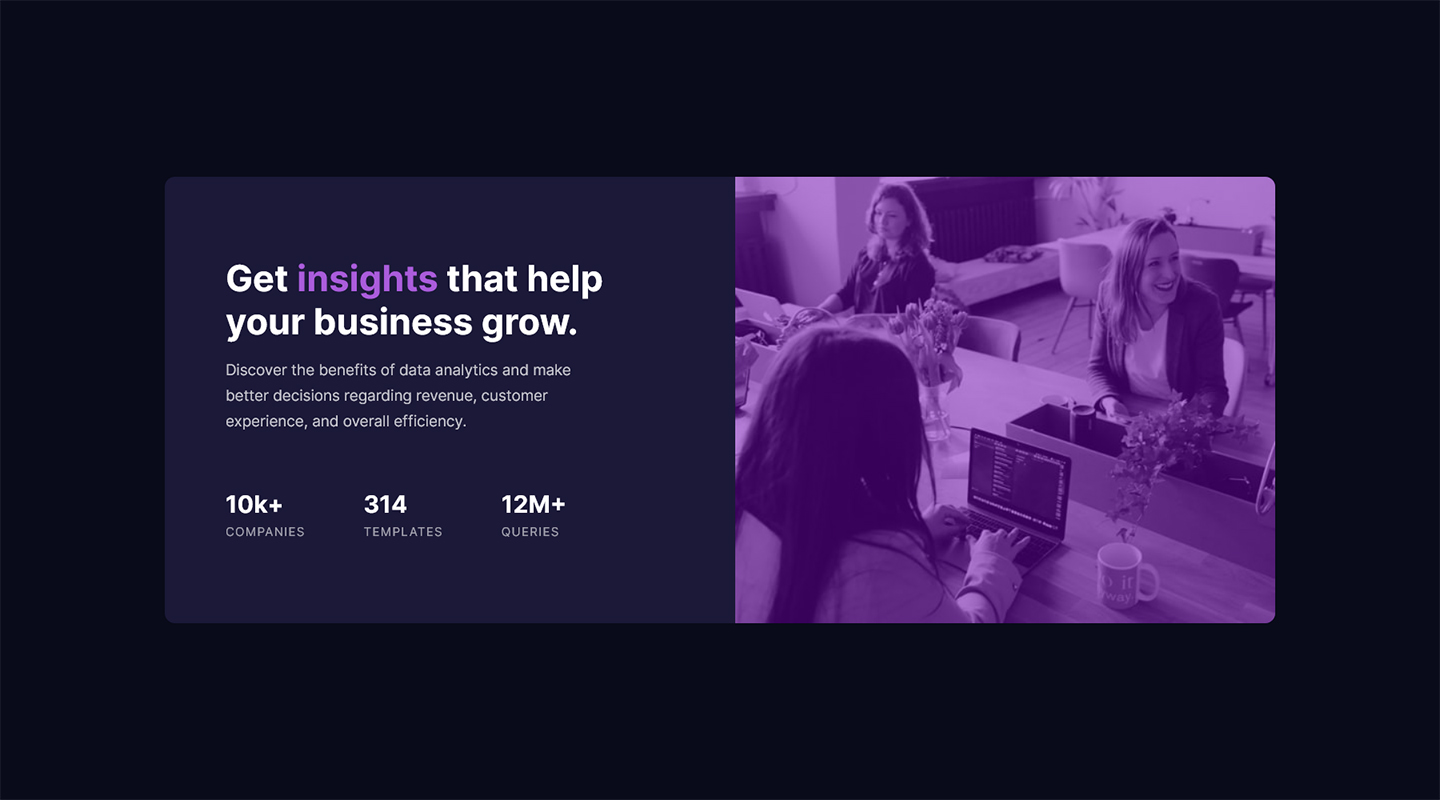
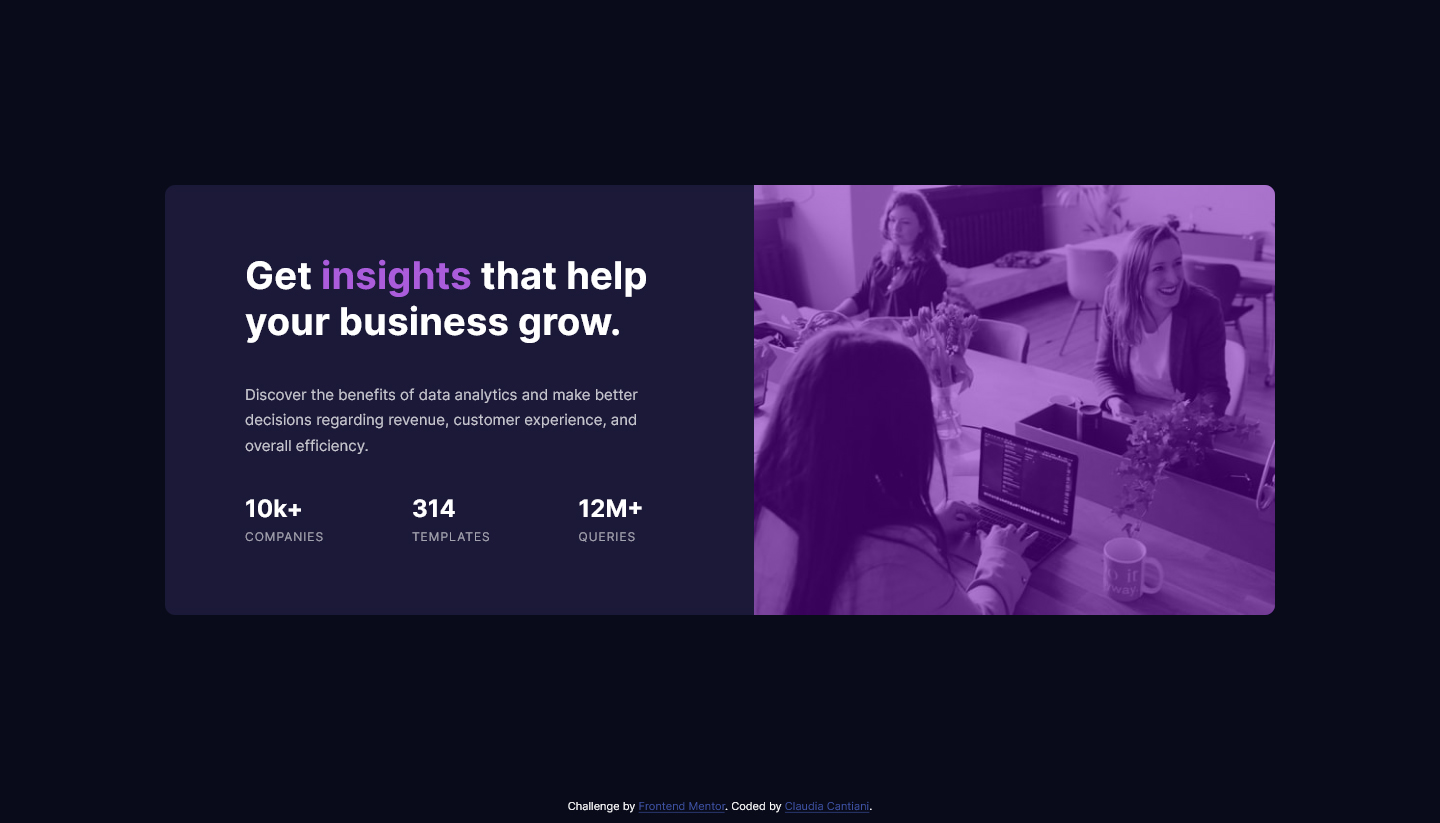
revised html and css

diff --git a/styles.css b/styles.css
@@ -2,7 +2,7 @@
 * Prefixed by https://autoprefixer.github.io
 * PostCSS: v7.0.29,
 * Autoprefixer: v9.7.6
-* Browsers: last 4 version
+* Browsers: last 10 version
 */
 
 * {
@@ -11,19 +11,15 @@
   -webkit-box-sizing: border-box;
           box-sizing: border-box;
 }
-
-header, section, picture {
+main, footer, section, picture {
   display: block; /* for older browsers */
-}
-html {
-  font-size: 15px;
 }
 body {
   background-color: hsl(233, 47%, 7%); /*very dark blue*/
   font-family: "Inter", sans-serif;
+  font-size: 0.9375rem;
 }
-
-.card-container {
+.container {
   display: -webkit-box;
   display: -ms-flexbox;
   display: flex;
@@ -31,7 +27,6 @@ body {
       -ms-flex-pack: center;
           justify-content: center;
 }
-
 .card {
   background-color: hsl(244, 38%, 16%); /*dark desaturated blue*/
   color: hsla(0, 0%, 100%, 0.75); /*slightly transparent white*/
@@ -41,136 +36,134 @@ body {
   display: -ms-flexbox;
   display: flex;
 }
-.card-header {
+.card-img {
   background-color: hsl(277, 100%, 35%);
 }
-
-.card-header img {
+.card-img img {
   max-width: 100%;
   display: block;
-  margin: auto;
   opacity: 0.5;
 }
-
 .card-content h1 {
   color: hsl(0, 0%, 100%);
-  font-size: 1.8rem;
+  font-size: 1.8em;
   line-height: 1.2;
-  letter-spacing: 0.01rem;
+  letter-spacing: 0.01em;
 }
 .card-content p {
-  font-size: 1rem;
   line-height: 1.7;
 }
-
 .card-content strong {
   color: hsl(277, 64%, 61%);
 }
-.card-content .card-stat {
+.card-stat {
   list-style-type: none;
-  line-height: 1.6rem;
+  line-height: 1.6em;
 }
 .card-stat .stat-head {
   color: hsl(0, 0%, 100%);
-  font-size: 1.6rem;
+  font-size: 1.6em;
   font-weight: bold;
 }
 .card-stat .stat-sub {
   color: hsla(0, 0%, 100%, 0.6);
   display: block;
   text-transform: uppercase;
-  font-size: 0.8rem;
-  letter-spacing: 0.07rem;
+  font-size: 0.8em;
+  letter-spacing: 0.08em;
 }
 
-/*small screen*/
-@media only screen and (max-width: 768px) {
+@media only screen and (width <= 768px) {
   .card {
     max-width: 654px;
-    width: 87%;
-    margin: 5.9rem 0;
+    -ms-flex-preferred-size: 87%;
+        flex-basis: 87%;
+    margin-top: 5.9em;
+    margin-bottom: 5.9em;
     -webkit-box-pack: center;
         -ms-flex-pack: center;
             justify-content: center;
     -ms-flex-wrap: wrap;
         flex-wrap: wrap;
   }
-  .card-header {
-    margin-bottom: 2.3rem;
+  .card-img {
+    margin-bottom: 2.3em;
   }
-  .card-content {
+ .card-content {
     text-align: center;
+    margin: 1em 2.3em;
   }
   .card-content h1 {
-    margin: 1rem 2.3rem;
+    margin-bottom: 1em;
   }
   .card-content p {
-    margin: 1rem 2.3rem;
+    margin-bottom: 2em;
   }
-  .card-content .card-stat {
-    margin: 2rem 2.3rem;
+  .card-stat {
+    margin-bottom: 2em;
   }
-  .card-stat .stat-sub {
-    margin-bottom: 1rem;
+  .stat-sub {
+    margin-bottom: 1.5em;
   }
 }
 
-/*big screen*/
-@media only screen and (min-width: 769px) {
-  .card-container {
-    position: relative;
+@media only screen and (width > 768px) {
+  .container {
     height: 100vh;
     -webkit-box-align: center;
         -ms-flex-align: center;
             align-items: center;
   }
-
   .card {
-    max-height: 446px;
-    max-width: 1110px;
-    width: 95%;
+    -ms-flex-preferred-size: 95%;
+        flex-basis: 95%;
     -webkit-box-orient: horizontal;
     -webkit-box-direction: reverse;
         -ms-flex-direction: row-reverse;
             flex-direction: row-reverse;
-    -webkit-box-pack: center;
-        -ms-flex-pack: center;
-            justify-content: center;
+    -webkit-box-pack: justify;
+        -ms-flex-pack: justify;
+            justify-content: space-between;
   }
-  .card-header {
-    margin-left: auto;
+  .card-img {
+    width: 50%;
   }
   .card-content {
     display: -webkit-box;
     display: -ms-flexbox;
     display: flex;
-    -webkit-box-orient: vertical;
-    -webkit-box-direction: normal;
-        -ms-flex-direction: column;
-            flex-direction: column;
+    -ms-flex-wrap: wrap;
+        flex-wrap: wrap;
+    -ms-flex-line-pack: distribute;
+        align-content: space-around;
     text-align: left;
-    width: 35%;
-    -ms-flex-pack: distribute;
-        justify-content: space-around;
-    margin: auto;
+    width: 40%;
+    margin: 2em;
   }
-  .card-content h1 {
-    font-size: 2.4rem;
-    letter-spacing: 0;
-    margin-bottom: 1rem;
-  }
-  .card-content p {
-    margin-bottom: 15%;
-  }
-  .card-content .card-stat {
+  .card-stat {
     display: -webkit-box;
     display: -ms-flexbox;
     display: flex;
-    -webkit-box-pack: start;
-        -ms-flex-pack: start;
-            justify-content: flex-start;
-  }
-  .card-content .card-stat li {
-    margin-right: 15%;
+    -webkit-box-pack: justify;
+        -ms-flex-pack: justify;
+            justify-content: space-between;
+    width: 100%;
+    margin-right: 2em;
   }
 }
+
+ @media only screen and (width >= 1024px) {
+  .card {
+    max-width: 1110px;
+  }
+  .card-img {
+    width: auto;
+  }
+  .card-content {
+    margin: 3rem 5rem;
+  }
+  .card-content h1 {
+   font-size: 2.4rem;
+   letter-spacing: 0;
+  }
+ }

diff --git a/index.html b/index.html
@@ -11,22 +11,22 @@
   <title>Frontend Mentor | Stats preview card component</title>
 
   <link rel="stylesheet" href="styles.css">
-
+  <!-- Feel free to remove these styles or customise in your own stylesheet 👍 -->
+  <style>
+    .attribution { font-size: 11px; text-align: center; color: white; margin-bottom: 10px;}
+    .attribution a { color: hsl(228, 45%, 44%); }
+  </style>
 </head>
 <body>
 
-  <div class="card-container">
-    <div class="card">
-
-      <header class="card-header">
-        <picture>
-          <source media="(min-width: 769px)" srcset="images/image-header-desktop.jpg">
-          <source srcset="images/image-header-mobile.jpg">
-          <img src="images/image-header-desktop.jpg" alt="people in a office">
-        </picture>
-      </header>
-
-      <section class="card-content">
+  <main class="container">
+    <section class="card">
+      <picture class="card-img">
+        <source media="(width > 768px)" srcset="images/image-header-desktop.jpg">
+        <source srcset="images/image-header-mobile.jpg">
+        <img src="images/image-header-desktop.jpg" alt="people in a office">
+      </picture>
+      <div class="card-content">
         <h1>Get <strong>insights</strong> that help your business grow.</h1>
         <p>Discover the benefits of data analytics and make better decisions regarding revenue, customer
         experience, and overall efficiency.</p>
@@ -35,9 +35,14 @@
           <li><span class="stat-head">314</span> <span class="stat-sub">templates</span></li>
           <li><span class="stat-head">12M+</span> <span class="stat-sub">queries</span></li>
         </ul>
-      </section>
-
+      </div>
+    </section>
+  </main>
+  <footer>
+    <div class="attribution">
+      Challenge by <a href="https://www.frontendmentor.io?ref=challenge" target="_blank">Frontend Mentor</a>.
+      Coded by <a href="https://www.frontendmentor.io/profile/cla91">Claudia Cantiani</a>.
     </div>
-  </div>
+  </footer>
 </body>
 </html>

diff --git a/README.md b/README.md
@@ -1,6 +1,6 @@
 # Frontend Mentor - Stats preview card component solution
 
-This is a solution to the [Stats preview card component challenge on Frontend Mentor](https://www.frontendmentor.io/challenges/stats-preview-card-component-8JqbgoU62). Frontend Mentor challenges help you improve your coding skills by building realistic projects. 
+This is a solution to the [Stats preview card component challenge on Frontend Mentor](https://www.frontendmentor.io/challenges/stats-preview-card-component-8JqbgoU62). Frontend Mentor challenges help you improve your coding skills by building realistic projects.
 
 ## Table of contents
 
@@ -26,7 +26,7 @@ Users should be able to:
 ### Screenshot
 
 ![](./screenshot-desktop.jpg)
-
+![](./screenshot-mobile.jpg)
 ### Links
 
 - Solution URL: [Add solution URL here](https://www.frontendmentor.io/solutions/responsive-site-using-flexbox-XSdoHjI8i)
@@ -48,7 +48,6 @@ This was my first project and it was quite challenging, but I learnt a lot.
 * I learnt that when using the picture element, if you don't apply the display: block property to the img element, the picture element actually adds height to the img itself;
 * I also learnt how to apply a color overlay on an image;
 * I learnt how to vertical align div in the whole page using the vh unit;
-* It was my first time using rem units and it was way more manageable than em units;
 
 ### Continued development
 
@@ -57,13 +56,10 @@ This was my first project and it was quite challenging, but I learnt a lot.
 ### Useful resources
 
 - [Convert typographic property from PS to CSS](https://martinwolf.org/before-2018/blog/2016/02/convert-typographic-properties-from-photoshop-to-css/) - This helped me with the typography. I don't this I would have made it this well without it. I'll definitely use it again, if like this time I've only a static image of the design.
-- [PX to EM conversion](https://www.w3schools.com/tags/ref_pxtoemconversion.asp) - It was fundamental. 
+- [PX to EM conversion](https://www.w3schools.com/tags/ref_pxtoemconversion.asp) - It was fundamental.
 - [Autoprefixer](https://autoprefixer.github.io/) - I wouldn't know where to begin whitout it 😄.
 
 
 ## Author
 
 - Frontend Mentor - [@cla91](https://www.frontendmentor.io/profile/cla91)
-
-
-
